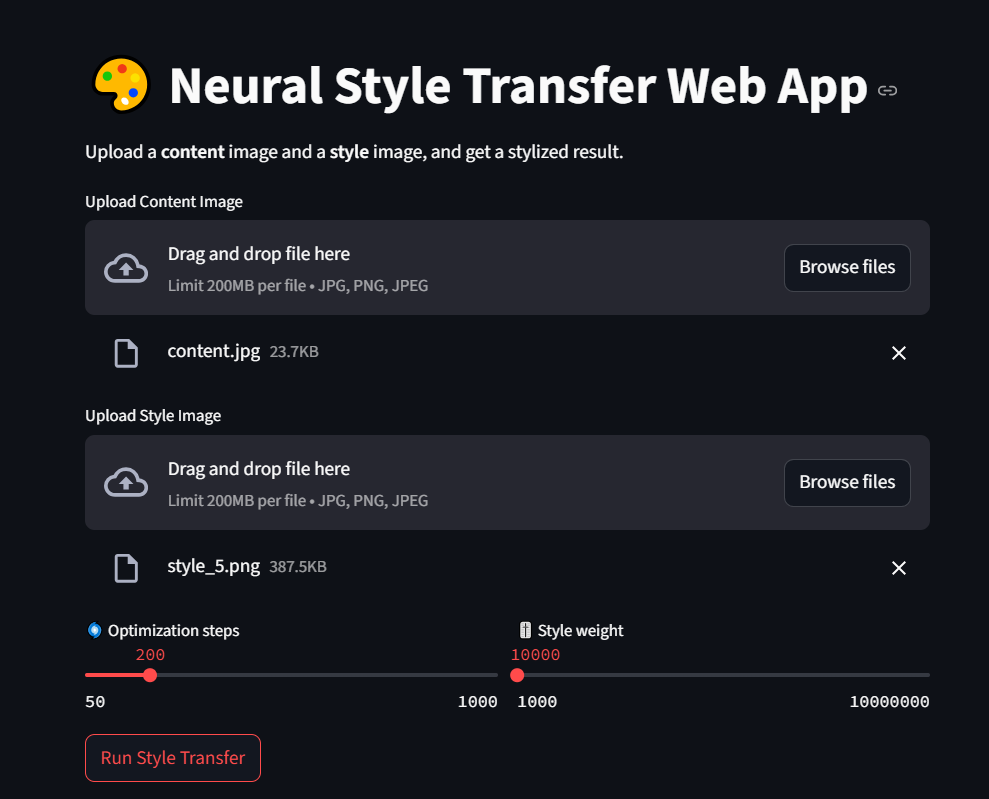
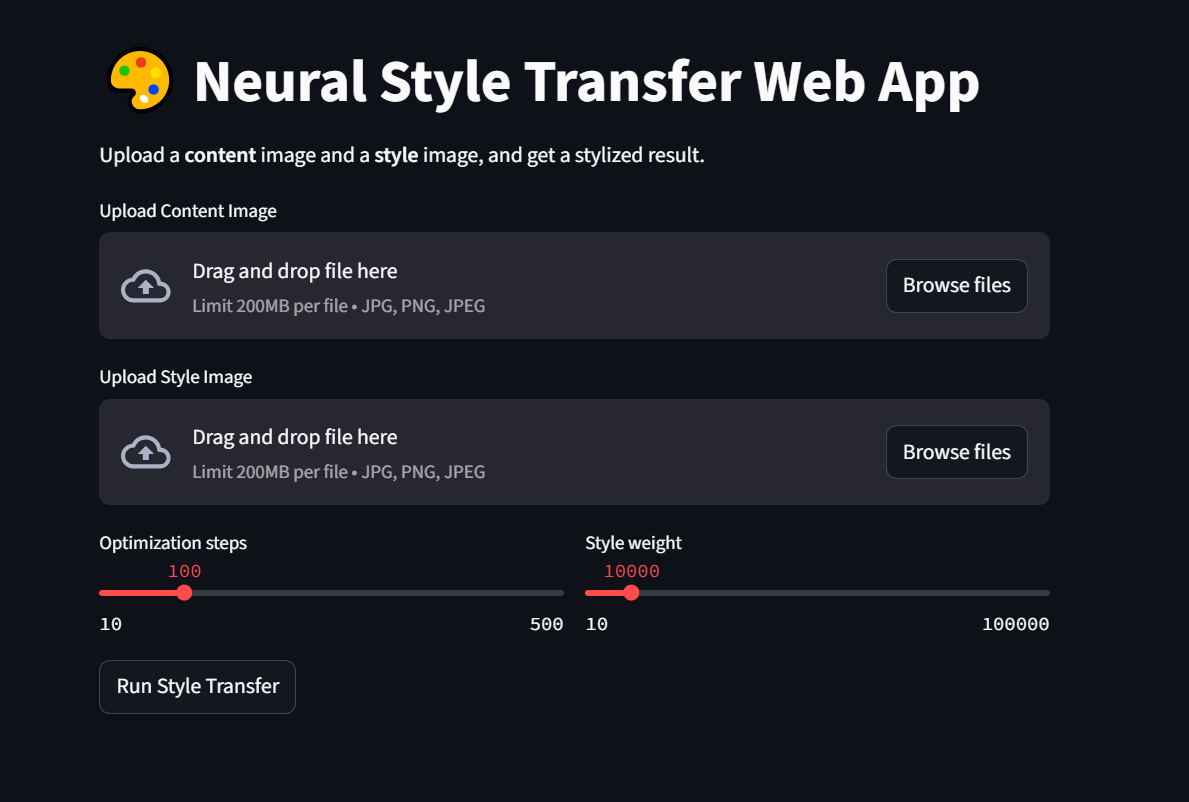
update app sliders range

diff --git a/app.py b/app.py
@@ -138,9 +138,9 @@ style_file = st.file_uploader("Upload Style Image", type=["jpg", "png", "jpeg"])
 # Side-by-side sliders
 col_steps, col_style = st.columns(2)
 with col_steps:
-    steps = st.slider("🌀 Optimization steps", 50, 1000, 300, step=50)
+    steps = st.slider("Optimization steps", 10, 500, 100, step=10)
 with col_style:
-    style_weight = st.slider("🎚 Style weight", 1e3, 1e7, 1e4, step=1e3, format="%.0f")
+    style_weight = st.slider("Style weight", 1e1, 1e5, 1e4, step=1e1, format="%.0f")
 
 # Button
 if st.button("Run Style Transfer") and content_file and style_file:
